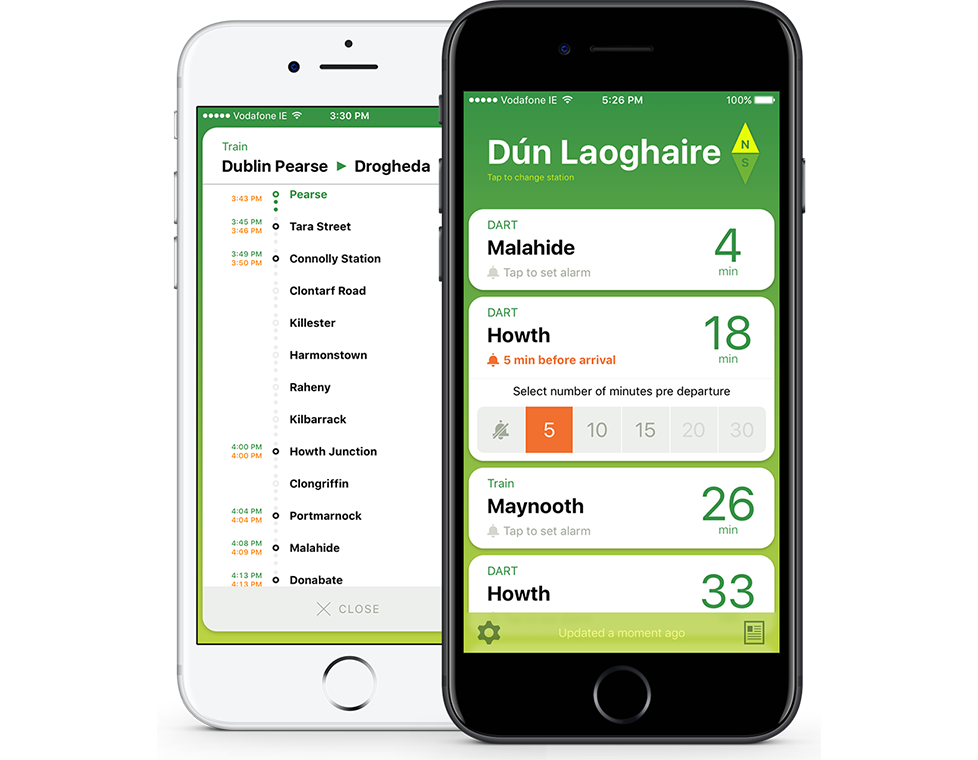
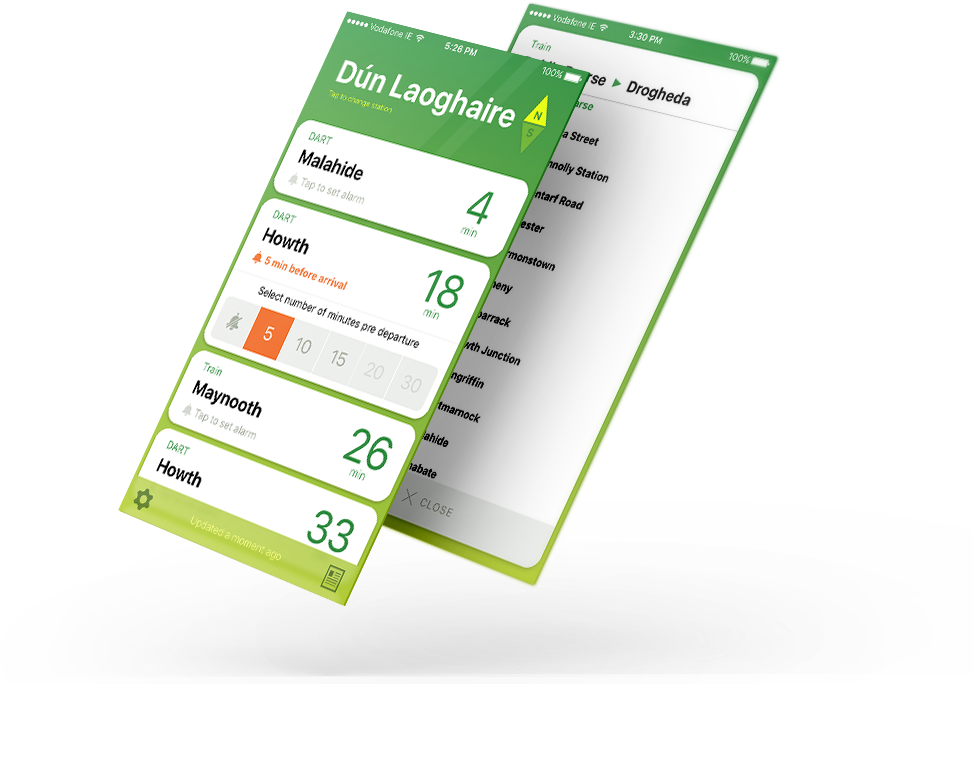
Added Darto to portfolio pages

diff --git a/portfolio.html b/portfolio.html
@@ -106,6 +106,26 @@
 
 </section>
 
+<section class="portfolio_case darto">
+
+	<div class="_c clearfix">
+
+		<div class="_deco no_mobile"><img src="images/cases/portfolio-darto-front.png" alt="Darto bg"/></div>
+
+		<div class="case_description">
+			<h2><a href="darto.html"><img class="icon" src="images/cases/darto/icon.png" alt="Our Work: Darto">Darto</a></h2>
+			<div class="case_statement">Rail Commute for Dubs</div>
+			<p>Darto is a smart, simple & beatiful app for Dublin train commuters.<br>Never miss your train again!</p>
+		</div>
+
+		<div class="actions">
+			<a href="darto.html" class="button button_white">See the case</a>
+		</div>
+
+	</div>
+
+</section>
+
 <section class="portfolio_case colorific">
 
 	<div class="_c clearfix">

diff --git a/colorific.html b/colorific.html
@@ -178,7 +178,7 @@
 					<a href="flipdish.html"><img src="images/cases/common/Flip_470px.png" srcset="images/cases/common/Flip_940px.png" alt="Flipdish"><div class="hover">See the case</div></a>
 				</div>
 				<div class="_column app">
-					<a href="fithit.html"><img src="images/cases/common/FIT_470px.png" srcset="images/cases/common/FIT_940px.png" alt="FitHIT"><div class="hover">See the case</div></a>
+					<a href="darto.html"><img src="images/cases/common/Darto_470px.png" srcset="images/cases/common/Darto_940px.png" alt="Darto"><div class="hover">See the case</div></a>
 				</div>
 			</div>
 		</div>

diff --git a/olapp.html b/olapp.html
@@ -197,7 +197,7 @@
 					<a href="flipdish.html"><img src="images/cases/common/Flip_470px.png" srcset="images/cases/common/Flip_940px.png" alt="Flipdish"><div class="hover">See the case</div></a>
 				</div>
 				<div class="_column app">
-					<a href="fithit.html"><img src="images/cases/common/FIT_470px.png" srcset="images/cases/common/FIT_940px.png" alt="FitHIT"><div class="hover">See the case</div></a>
+					<a href="darto.html"><img src="images/cases/common/Darto_470px.png" srcset="images/cases/common/Darto_940px.png" alt="Darto"><div class="hover">See the case</div></a>
 				</div>
 			</div>
 		</div>

diff --git a/flipdish.html b/flipdish.html
@@ -127,7 +127,7 @@
 					<a href="olapp.html"><img src="images/cases/common/OlApp_470px.png" srcset="images/cases/common/OlApp_940px.png" alt="Ol"><div class="hover">See the case</div></a>
 				</div>
 				<div class="_column app">
-					<a href="fithit.html"><img src="images/cases/common/FIT_470px.png" srcset="images/cases/common/FIT_940px.png" alt="FitHIT"><div class="hover">See the case</div></a>
+					<a href="darto.html"><img src="images/cases/common/Darto_470px.png" srcset="images/cases/common/Darto_940px.png" alt="Darto"><div class="hover">See the case</div></a>
 				</div>
 			</div>
 		</div>

diff --git a/css/portfolio.css b/css/portfolio.css
@@ -141,6 +141,17 @@
 		margin-left: 10vw;
 	}
 
+	.portfolio_case.darto ._c{
+		background-color: #4a9d57;
+	}
+		.portfolio_case.darto ._deco {
+			right: 6vw;
+			bottom: 2vw;
+		}
+			.portfolio_case.darto ._deco img {
+				width: 50.5vw;
+			}
+
 	.portfolio_case.colorific ._c{
 		background-color: #6cb8e7;
 	}
